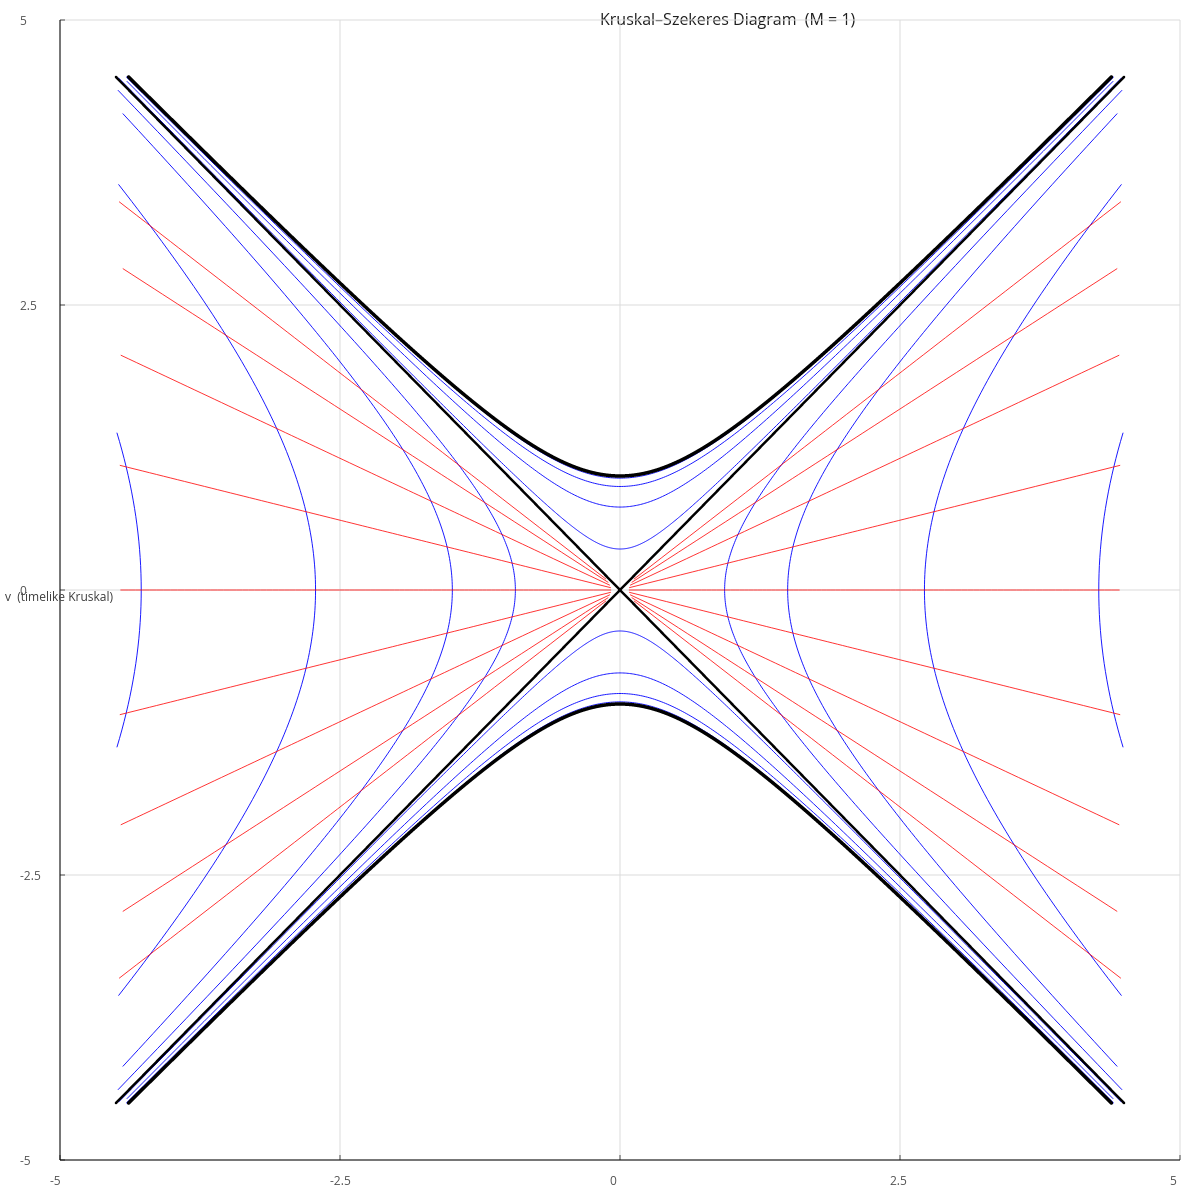
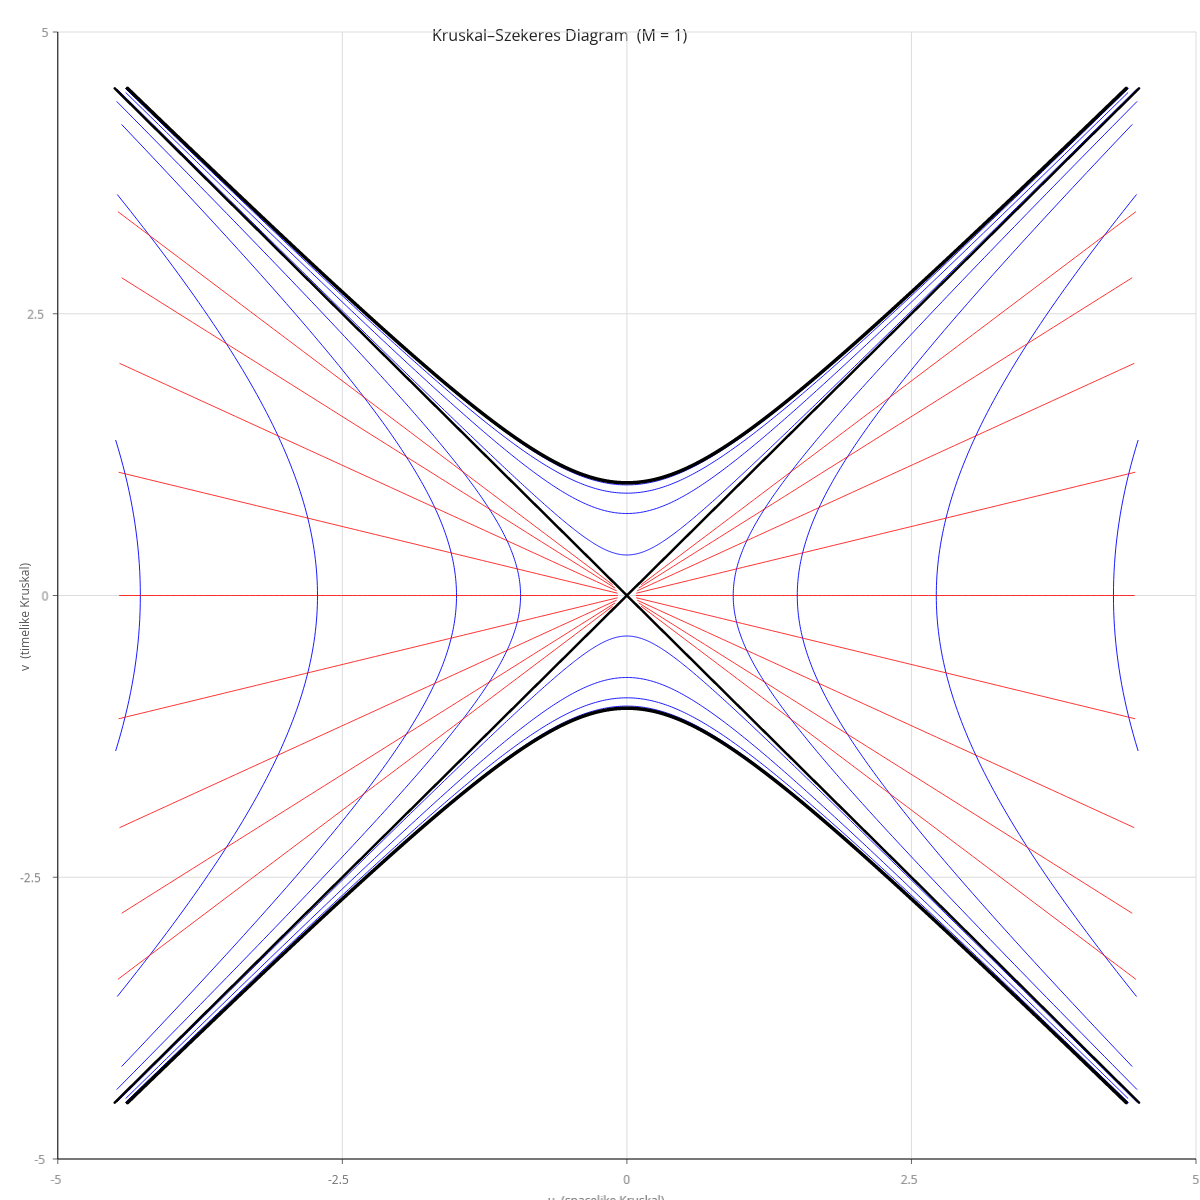
fix(skia): anchor draw_text at baseline to match SVG semantics
SkiaBackend::draw_text and draw_rotated_text previously interpreted
position.y as the top of cosmic-text's line box, while SvgBackend uses
the SVG <text> y-attribute, which is the glyph baseline. Same call,
different visual position by ~font_size pixels. This was masked while
the figure used hardcoded margins tuned for Skia, but became visible
once the layout module sized slots from text_extent: titles overlapped
the plot area and X-axis titles clipped at the bottom of the canvas
in PNG output.

Shift the buffer up by the first layout run's line_y (with a font_size
* 0.85 fallback) so position.y is the baseline. For draw_rotated_text,
compose the shift with the rotation transform so the rotation pivot
stays at the requested point.

Refs starsight-3tl.

diff --git a/starsight-layer-5/src/layout.rs b/starsight-layer-5/src/layout.rs
@@ -205,6 +205,8 @@ impl<'a> LayoutComponent for TitleComponent<'a> {
 }
 
 /// Bottom-side reservation for x-axis tick labels (closest to plot, priority 0).
+/// Also reserves on the right so the rightmost label, which is centered on
+/// `plot.right`, doesn't overhang the canvas edge.
 pub struct XTickLabelsComponent<'a> {
     pub labels: &'a [String],
     pub tick_len: f32,
@@ -219,9 +221,13 @@ impl<'a> LayoutComponent for XTickLabelsComponent<'a> {
         if self.labels.is_empty() {
             return vec![];
         }
+        let mut max_w: f32 = 0.0;
         let mut max_h: f32 = 0.0;
         for l in self.labels {
-            if let Ok((_, h)) = ctx.backend.text_extent(l, ctx.font_size) {
+            if let Ok((w, h)) = ctx.backend.text_extent(l, ctx.font_size) {
+                if w > max_w {
+                    max_w = w;
+                }
                 if h > max_h {
                     max_h = h;
                 }
@@ -230,15 +236,24 @@ impl<'a> LayoutComponent for XTickLabelsComponent<'a> {
         if max_h <= 0.0 {
             max_h = ctx.font_size;
         }
-        vec![Reservation {
-            side: Side::Bottom,
-            size: self.tick_len + self.gap + max_h,
-            priority: 0,
-        }]
+        vec![
+            Reservation {
+                side: Side::Bottom,
+                size: self.tick_len + self.gap + max_h,
+                priority: 0,
+            },
+            Reservation {
+                side: Side::Right,
+                size: max_w / 2.0 + 2.0,
+                priority: 0,
+            },
+        ]
     }
 }
 
 /// Left-side reservation for y-axis tick labels (closest to plot, priority 0).
+/// Also reserves on the top so the topmost label, which is centered on
+/// `plot.top`, doesn't overhang the canvas edge.
 pub struct YTickLabelsComponent<'a> {
     pub labels: &'a [String],
     pub tick_len: f32,
@@ -254,18 +269,32 @@ impl<'a> LayoutComponent for YTickLabelsComponent<'a> {
             return vec![];
         }
         let mut max_w: f32 = 0.0;
+        let mut max_h: f32 = 0.0;
         for l in self.labels {
-            if let Ok((w, _)) = ctx.backend.text_extent(l, ctx.font_size) {
+            if let Ok((w, h)) = ctx.backend.text_extent(l, ctx.font_size) {
                 if w > max_w {
                     max_w = w;
                 }
+                if h > max_h {
+                    max_h = h;
+                }
             }
         }
-        vec![Reservation {
-            side: Side::Left,
-            size: self.tick_len + self.gap + max_w,
-            priority: 0,
-        }]
+        if max_h <= 0.0 {
+            max_h = ctx.font_size;
+        }
+        vec![
+            Reservation {
+                side: Side::Left,
+                size: self.tick_len + self.gap + max_w,
+                priority: 0,
+            },
+            Reservation {
+                side: Side::Top,
+                size: max_h / 2.0 + 2.0,
+                priority: 0,
+            },
+        ]
     }
 }
 

diff --git a/starsight-layer-1/src/backends/rasters.rs b/starsight-layer-1/src/backends/rasters.rs
@@ -149,6 +149,13 @@ impl DrawBackend for SkiaBackend {
         buffer.set_size(Some(self.pixmap.width() as f32), None);
         buffer.shape_until_scroll(&mut self.font_system, true);
 
+        // Match SVG semantics: position.y is the baseline. cosmic-text's buffer
+        // origin is the line top, so shift up by the first run's baseline offset.
+        let baseline_offset = buffer
+            .layout_runs()
+            .next()
+            .map_or(font_size * 0.85, |run| run.line_y);
+
         let text_color = cosmic_text::Color::rgba(color.r, color.g, color.b, 255);
         let mut paint = Paint::default();
         buffer.draw(
@@ -158,7 +165,7 @@ impl DrawBackend for SkiaBackend {
             |x, y, w, h, c| {
                 paint.set_color_rgba8(c.r(), c.g(), c.b(), c.a());
                 let px = x as f32 + position.x;
-                let py = y as f32 + position.y;
+                let py = y as f32 + position.y - baseline_offset;
                 if let Some(rect) = tiny_skia::Rect::from_xywh(px, py, w as f32, h as f32) {
                     self.pixmap
                         .fill_rect(rect, &paint, tiny_skia::Transform::identity(), None);
@@ -200,11 +207,25 @@ impl DrawBackend for SkiaBackend {
         let text_color = cosmic_text::Color::rgba(color.r, color.g, color.b, 255);
         let mut paint = Paint::default();
 
+        // Same baseline shift as draw_text, but composed with the rotation.
+        // Pre-translate the buffer by (0, -baseline_offset) so the baseline sits
+        // at the rotation pivot, then rotate, then translate to position.
+        let baseline_offset = buffer
+            .layout_runs()
+            .next()
+            .map_or(font_size * 0.85, |run| run.line_y);
+
         let angle_rad = rotation.to_radians();
         let cos_a = angle_rad.cos();
         let sin_a = angle_rad.sin();
-        let transform =
-            tiny_skia::Transform::from_row(cos_a, sin_a, -sin_a, cos_a, position.x, position.y);
+        let transform = tiny_skia::Transform::from_row(
+            cos_a,
+            sin_a,
+            -sin_a,
+            cos_a,
+            position.x + sin_a * baseline_offset,
+            position.y - cos_a * baseline_offset,
+        );
 
         buffer.draw(
             &mut self.font_system,
